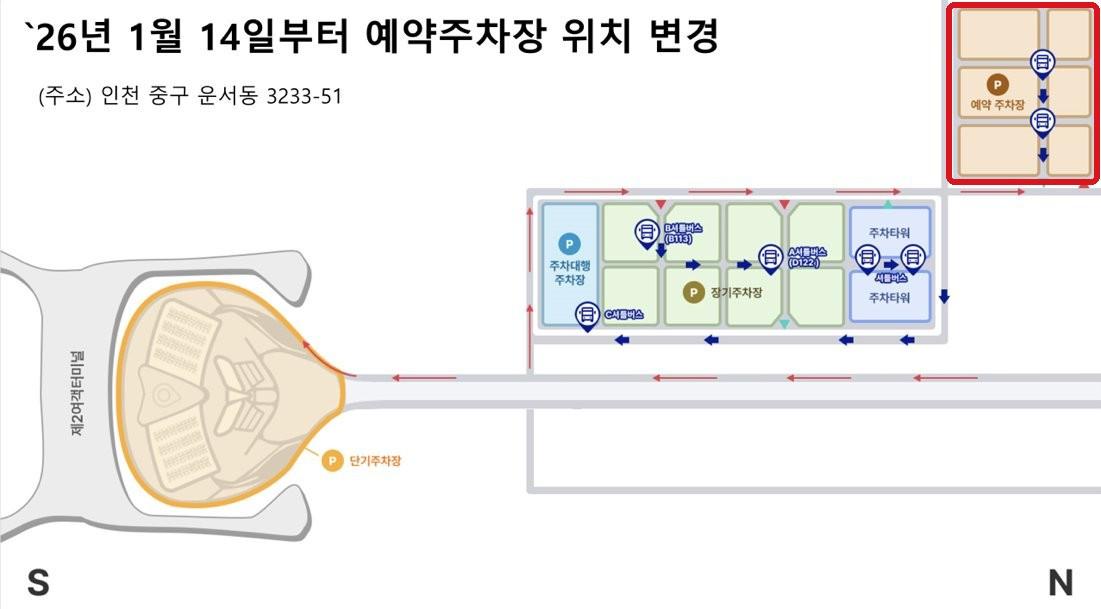
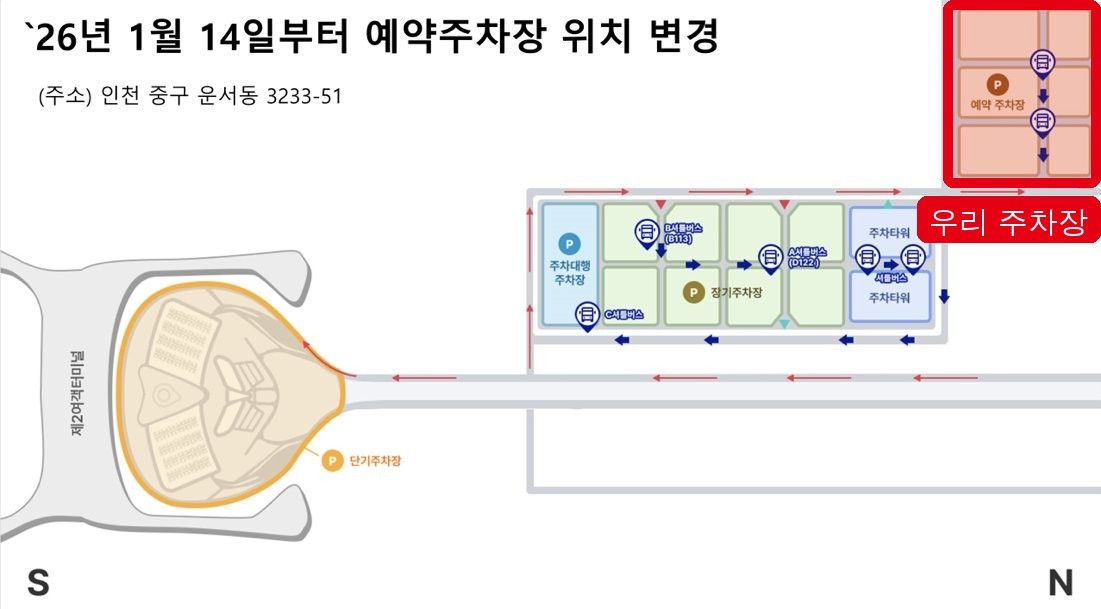
Parking images: full shuttle map with T2 circled, bolder lot marker
Claude-Session: https://claude.ai/code/session_01L2aYEXFB66TzMMbesmNc18

Changed region(s): [[0.8338, 0.0, 1.0, 0.4056]]

diff --git a/index.html b/index.html
@@ -685,8 +685,8 @@ footer{color:var(--muted);font-size:16px;text-align:center;padding-block:0 40px}
       <p class="cancel">12/2 오후 4시 전까지 취소할 수 있어요.</p>
       <p class="valetnote">공항 발렛은 대기 예약 중인데, 안 될 가능성이 커요.</p>
       <div class="pkimgs">
-        <figure><img src="img/parking-map.jpg?v=2" alt="제2터미널 예약주차장 위치 지도" loading="lazy"><figcaption>주차장 위치 (오른쪽 위 '예약 주차장')</figcaption></figure>
-        <figure><img src="img/parking-shuttle.jpg?v=2" alt="공항02번 셔틀버스 노선도" loading="lazy"><figcaption>공항02번 셔틀버스 노선</figcaption></figure>
+        <figure><img src="img/parking-map.jpg?v=3" alt="제2터미널 예약주차장 위치 지도" loading="lazy"><figcaption>주차장 위치 (오른쪽 위 '예약 주차장')</figcaption></figure>
+        <figure><img src="img/parking-shuttle.jpg?v=3" alt="공항02번 셔틀버스 노선도" loading="lazy"><figcaption>공항02번 셔틀버스 노선</figcaption></figure>
       </div>
     </div>
   </section>
